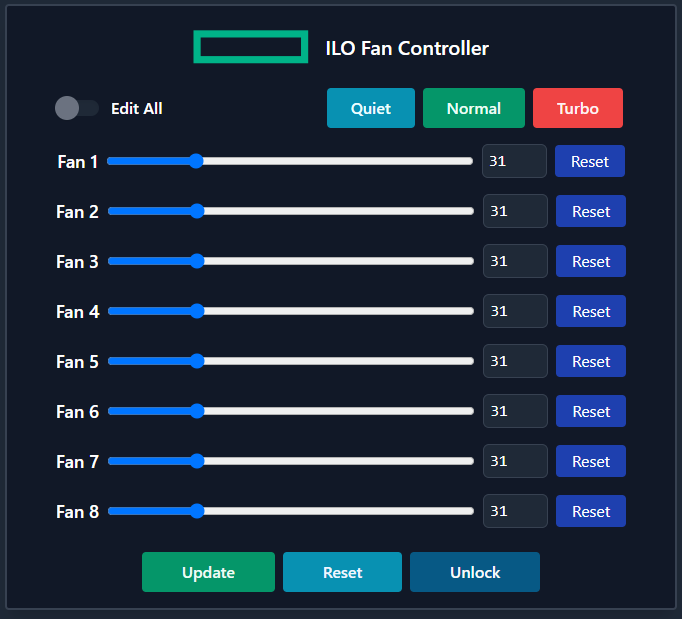
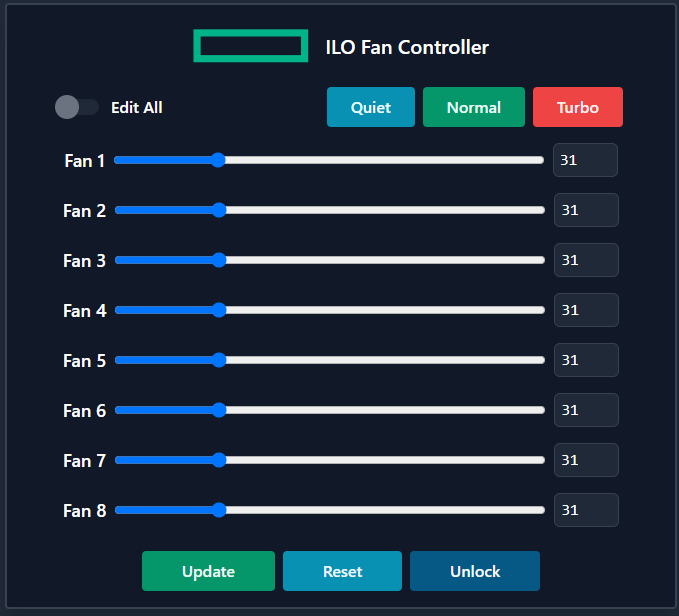
final readme and fixes

diff --git a/src/components/Fan/Fan.tsx b/src/components/Fan/Fan.tsx
@@ -44,7 +44,7 @@ const Fan = ({
                 min="10"
                 max="100"
                 value={values[index]}
-                className="sm:w-[23rem] w-[13rem]"
+                className="sm:w-[27rem] w-[13rem]"
                 onChange={HandleUpdate}
             />
             <input
@@ -56,13 +56,6 @@ const Fan = ({
                 className="bg-gray-800 border border-gray-700 max-w-max p-1.5 py-1 rounded-md font-mono focus:outline-none"
                 onChange={HandleUpdate}
             />
-            <button
-                type="button"
-                onClick={() => HandleUpdate(original as any, false)}
-                className="sm:block hidden rounded bg-blue-800 hover:bg-blue-900 duration-150 sm:px-4 px-2 py-1"
-            >
-                Reset
-            </button>
         </div>
     );
 };

diff --git a/README.md b/README.md
@@ -69,4 +69,4 @@ yarn start
 
 HP offers enterprise servers which are normally supposed to be in some sort of datacenter environment, where things such as fan speed are not really a concern. With this in mind, when old HPE servers are decommissioned and put on the used market, people like myself buy these servers to have them part of our _Home Datacenter_.
 
-These servers can easily start sounding like an airplane is starting to take off at your house, so modified firmwares of the server's IPMI system (ILO4) have been created in order to manage the fan speeds via SSH, but when your power goes off and you need to change the fan speed from your phone, that's a whole different story. I am sure there are already countless alternatives which do the same thing, but I decided to create my own so that I can make it as customizable as possible and not have it restricted to some models.
+These servers can easily start sounding like an airplane is starting to take off at your house, so modified firmwares of the server's IPMI system (ILO4) have been created in order to manage the fan speeds via SSH, but when your power goes off and you need to change the fan speed from your phone, that's a whole different story. The main inspiration for this project was this post I found on [r/homelab](https://www.reddit.com/r/homelab/comments/rcel73/i_created_a_web_page_to_manage_the_fans_of_my/), but I decided to create my own so that I can make it as customizable as possible and not have it restricted to some models.
